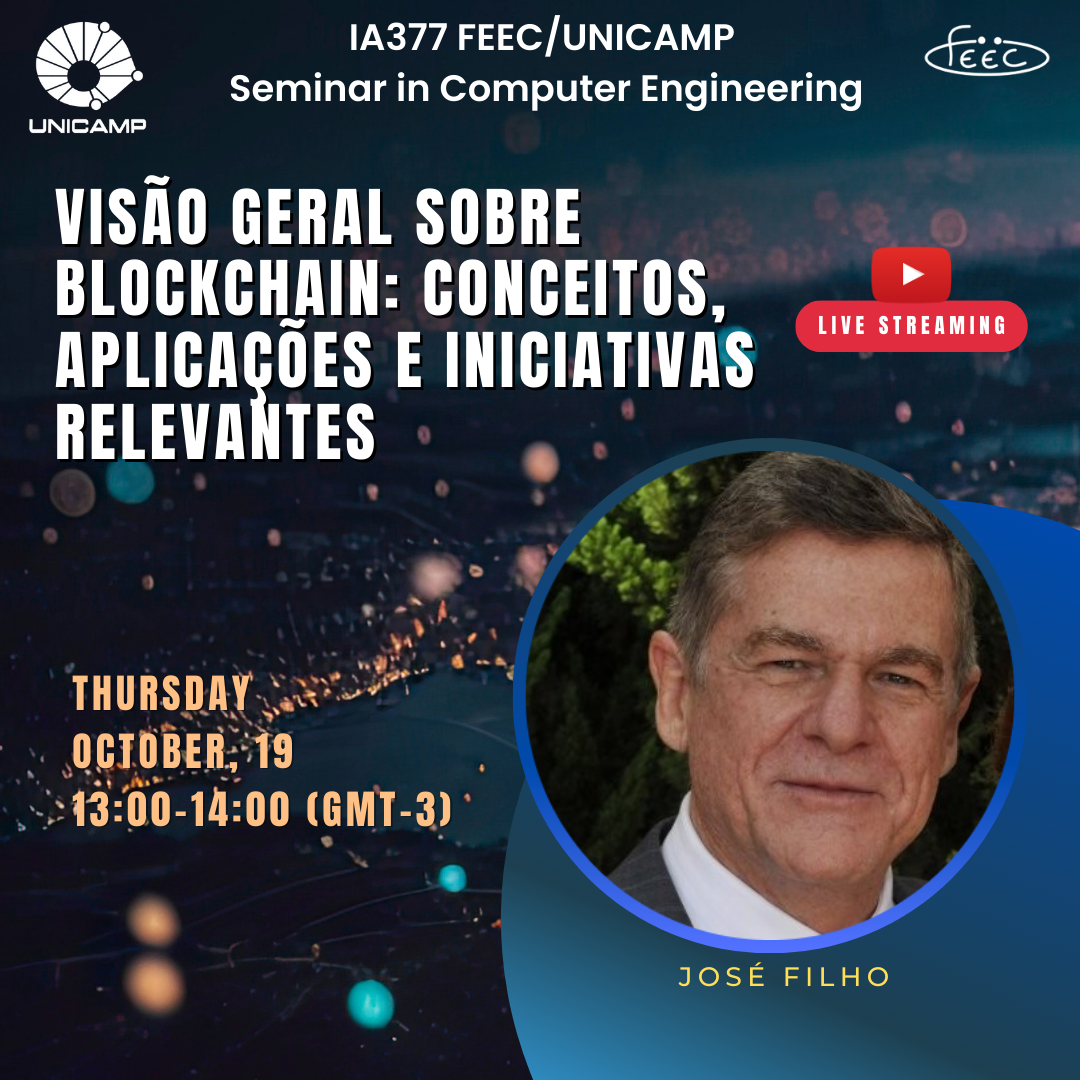
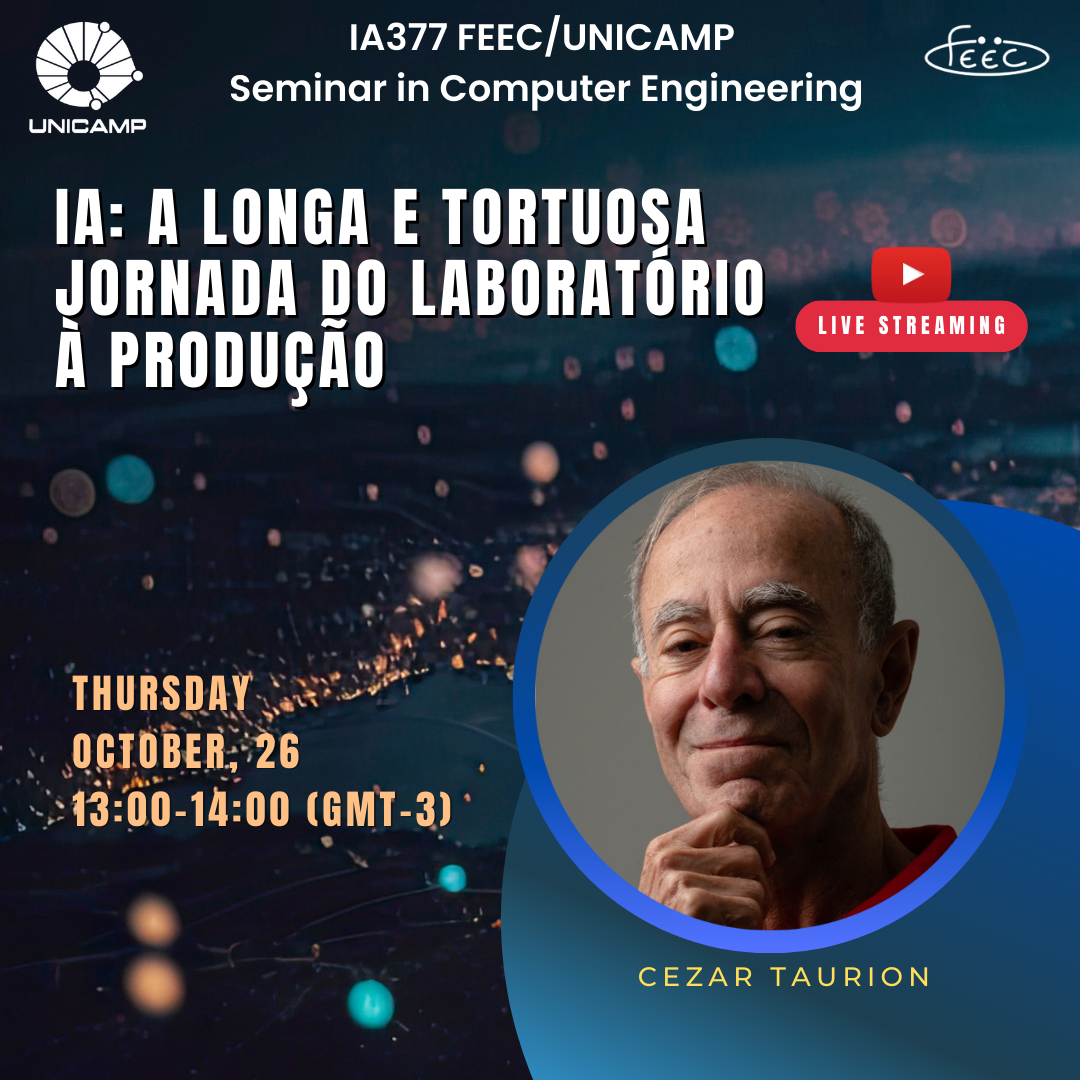
'new' seminar 4 - old one canceled

Changed region(s): [[0.4889, 0.3972, 0.9472, 0.9167], [0.0306, 0.1528, 0.7333, 0.4278], [0.2444, 0.6722, 0.275, 0.7333]]

diff --git a/content/posts/seminars/4/index.md b/content/posts/seminars/4/index.md
@@ -1,26 +1,22 @@
 ---
-title: "Visão geral sobre Blockchain: Conceitos, aplicações e iniciativas relevantes"
-date: 2023-10-16T15:09:44-03:00
+title: "IA: a longa e tortuosa jornada do laboratório à produção"
+date: 2023-10-17T21:12:49-03:00
 draft: false
-tags: ["Blockchain Technology", "Distributed Ledger", "Cryptocurrency", "Smart Contracts", "Blockchain Applications", "National Initiatives", "International Initiatives", "Blockchain Development", "Standardization", "Economic Sectors"]
 series: ["Seminars"]
-series_order: 4
+series_order: 
 ---
 
 ## Abstract
-A palestra vai apresentar: 
-* o histórico e os conceitos básicos relacionados com a tecnologia blockchain;
-* quais as aplicações em diferentes setores da economia;
-* as iniciativas mais relevantes em nível nacional e internacional relacionadas com padronização, projetos estruturantes e comunidades de desenvolvimento.
+TBD
 
 ## Bio
-<img alt="Jose Reynaldo Formigoni Filho" src="/posts/seminars/4/jose.png" style="width: 40%; height: 160x;">
+<img alt="Cezar Taurion" src="/posts/seminars/4/cezar-taurion-cropped.png" style="width: 40%; height: 160x;">
 
-Graduado em 1984 em engenharia elétrica pela Universidade de Campinas. Em 1995 obteve o título de mestre em engenharia de sistemas pela mesma universidade.  Possui MBA em Direito Eletrônico em 2019 pela Escola Paulista de Direito.  Ingressou no CPqD em 2000, atuando como consultor e pesquisador em diferentes projetos em Tecnologia da Informação e Comunicação . De 2003 a 2010 foi gerente de estratégia e inteligência regulatória, atuando em projetos de consultoria para o setor de comunicações, tendo como clientes empresas operadoras, Ministério das Comunicações e Anatel, além de empresas operadoras no exterior. De outubro de 2010 até o final de 2018, foi gerente da área de Tecnologias de Segurança da Informação. Desde meados de 2018, é o gerente da área de soluções blockchain do CPqD, sendo responsável pela proposição e gestão executiva de projetos de P&D para diferentes setores, pelo desenvolvimento do ecossistema blockchain através concepção de novos modelos de negócio, governança de rede, assim como o desenvolvimento de parcerias tecnológicas e de negócio no tema.
+Sócio da KICK Ventures, César Taurion trabalha com o propósito de incentivar e promover o empreendedorismo para o próximo nível, especialmente nas economias emergentes, alavancando a cultura da inovação e parcerias de empreendimentos corporativos. Além disso, Taurion é VP de Estratégia e Inovação na Cia Técnica, mentor e investidor em startups, e ainda, exerceu cargos técnicos e executivos em empresas como Shell e Chase Manhattan Bank. Consultor com grande experiência, já foi diretor de Novas Tecnologias Aplicadas/Chief Evangelist da IBM Brasil, e sócio-diretor líder de IT Strategy na PwC, desenvolvendo diversos projetos de alta complexidade que transformaram o papel da TI e seu posicionamento profissional em grandes corporações. Como escritor, Taurion é autor de nove livros que abordam assuntos como Transformação Digital, Inovação, Big Data e Tecnologias Emergentes. É colunista da CIO Magazine e Computerworld Brasil. Também colabora com sites especializados, como TI Especialistas e iMasters, além de apresentar palestras sobre tecnologia da informação em eventos e conferências.
 
 ## Contact
-E-mail: reynaldo@cpqd.com.br \
-[Linkedin](https://www.linkedin.com/in/jos%C3%A9-reynaldo-formigoni-filho-msc-b480034/?originalSubdomain=br)
+E-mail: cezar.taurion@redcore.ai \
+[Linkedin](https://www.linkedin.com/in/ctaurion/)
 
 ## Resources and Materials
 [FEEC UNICAMP streams](https://www.youtube.com/@feec-unicamp/streams)

diff --git a/content/posts/seminars/later/index.md b/content/posts/seminars/later/index.md
@@ -1,0 +1,32 @@
+---
+title: "Visão geral sobre Blockchain: Conceitos, aplicações e iniciativas relevantes"
+date: 2023-10-16T15:09:44-03:00
+draft: true
+tags: ["Blockchain Technology", "Distributed Ledger", "Cryptocurrency", "Smart Contracts", "Blockchain Applications", "National Initiatives", "International Initiatives", "Blockchain Development", "Standardization", "Economic Sectors"]
+series: ["Seminars"]
+series_order: 999
+---
+
+## Abstract
+A palestra vai apresentar: 
+* o histórico e os conceitos básicos relacionados com a tecnologia blockchain;
+* quais as aplicações em diferentes setores da economia;
+* as iniciativas mais relevantes em nível nacional e internacional relacionadas com padronização, projetos estruturantes e comunidades de desenvolvimento.
+
+## Bio
+<img alt="Jose Reynaldo Formigoni Filho" src="/posts/seminars/later/jose.png" style="width: 40%; height: 160x;">
+
+Graduado em 1984 em engenharia elétrica pela Universidade de Campinas. Em 1995 obteve o título de mestre em engenharia de sistemas pela mesma universidade.  Possui MBA em Direito Eletrônico em 2019 pela Escola Paulista de Direito.  Ingressou no CPqD em 2000, atuando como consultor e pesquisador em diferentes projetos em Tecnologia da Informação e Comunicação . De 2003 a 2010 foi gerente de estratégia e inteligência regulatória, atuando em projetos de consultoria para o setor de comunicações, tendo como clientes empresas operadoras, Ministério das Comunicações e Anatel, além de empresas operadoras no exterior. De outubro de 2010 até o final de 2018, foi gerente da área de Tecnologias de Segurança da Informação. Desde meados de 2018, é o gerente da área de soluções blockchain do CPqD, sendo responsável pela proposição e gestão executiva de projetos de P&D para diferentes setores, pelo desenvolvimento do ecossistema blockchain através concepção de novos modelos de negócio, governança de rede, assim como o desenvolvimento de parcerias tecnológicas e de negócio no tema.
+
+## Contact
+E-mail: reynaldo@cpqd.com.br \
+[Linkedin](https://www.linkedin.com/in/jos%C3%A9-reynaldo-formigoni-filho-msc-b480034/?originalSubdomain=br)
+
+## Resources and Materials
+[FEEC UNICAMP streams](https://www.youtube.com/@feec-unicamp/streams)
+
+
+<iframe width="560" height="315" src="https://www.youtube.com/embed/" title="YouTube video player" frameborder="0" allow="accelerometer; autoplay; clipboard-write; encrypted-media; gyroscope; picture-in-picture; web-share" allowfullscreen></iframe>
+
+
+**Save the date:** October, 19th, 2023.
